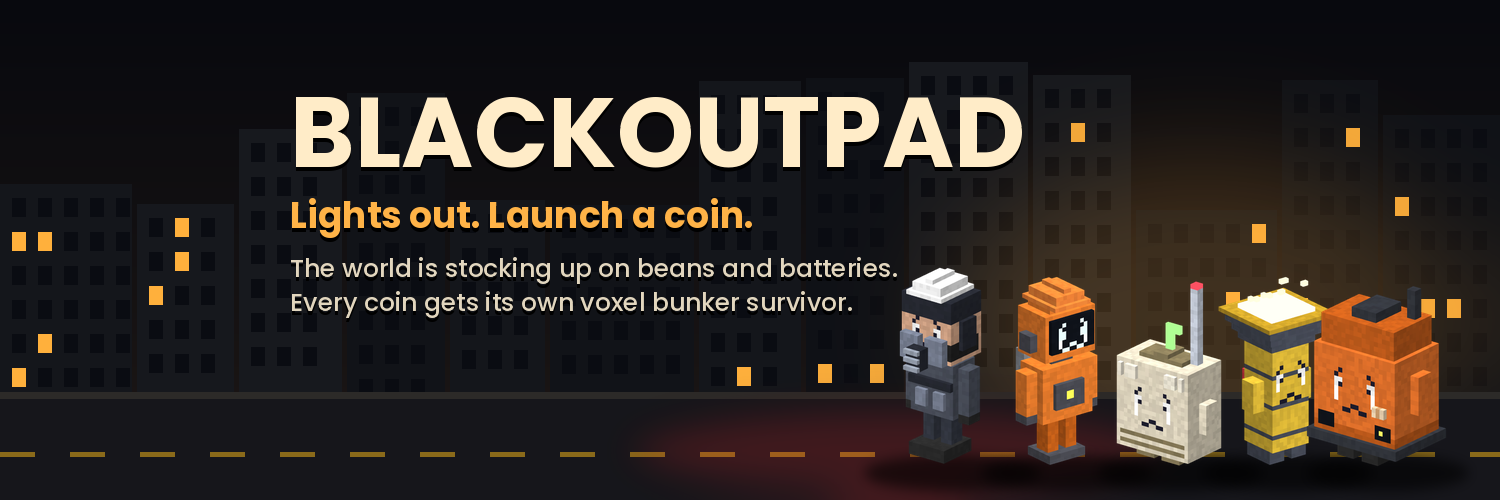
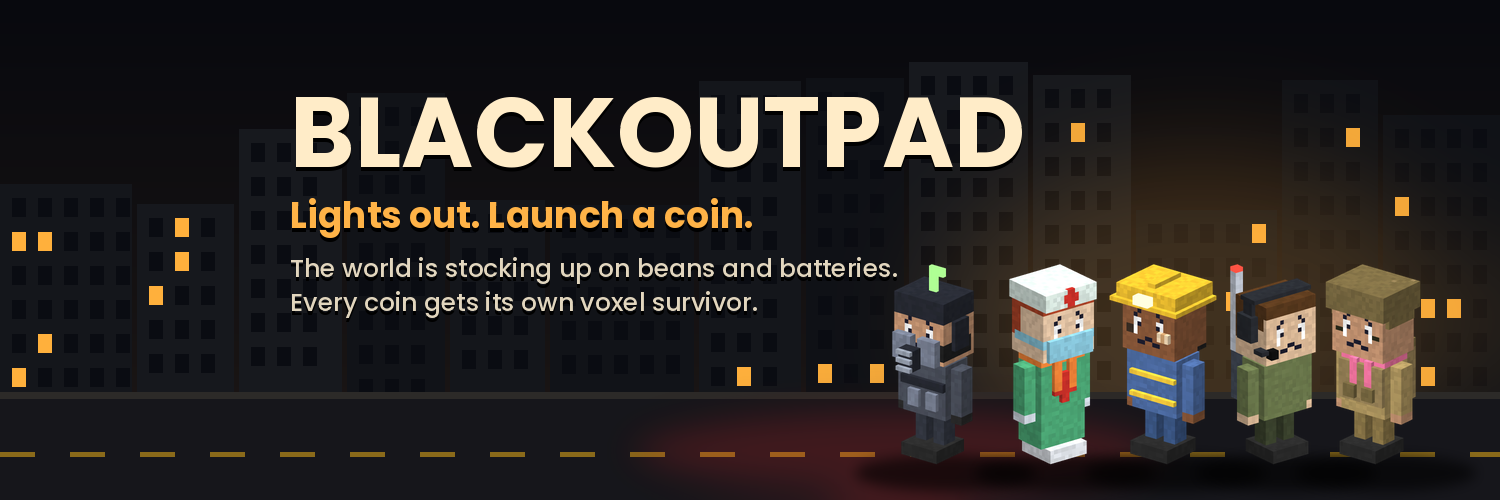
Characters are now humans: gas-mask survivor, hazmat worker, soldier, medic, radio operator, miner, electrician, lamplighter
Claude-Session: https://claude.ai/code/session_01XJUnd7YWyMkQMqU4jWDjo3

Changed region(s): [[0.4293, 0.51, 0.9813, 0.93]]

diff --git a/blackout.js b/blackout.js
@@ -1,7 +1,7 @@
 'use strict';
 // Bunker survivors for BlackoutPad, built from cubes in a 32 x 48 x 32 grid from a server secret.
-// Eight original characters in two teams. Preppers have stocked up (gas mask, hazmat suit, canned beans, generator).
-// Doomers are running out of power (flashlight, candle, radio, battery). Even slots are preppers and odd slots are doomers,
+// Eight original human characters in two teams. Preppers have stocked up (gas-mask survivor, hazmat worker, soldier, medic).
+// Doomers keep the lights on, or try to (radio operator, miner, electrician, lamplighter). Even slots are preppers and odd slots are doomers,
 // so the teams stay level. The same model drives the 3D views and the flat logos.
 const crypto = require('crypto');
 
@@ -11,36 +11,36 @@ const TEAR = '#bfe3ff', INK = '#1d1d2e', METAL = '#b9c0cc', METALD = '#98a1b0';
 // ---- looks: each species has a few colour sets ----
 const SPECIES = {
   prepper: {
-    gasmask: { name: 'Gas mask', w: 14, looks: [
-      { n: 'Olive', a: '#6b7a4a', b: '#4f5a38', c: '#3a3f35', d: '#8d9b6b', skin: '#e8c4a0' }, { n: 'Charcoal', a: '#4b505c', b: '#353944', c: '#272a33', d: '#7b8396', skin: '#d9a98a' },
-      { n: 'Desert', a: '#b79a63', b: '#8f7747', c: '#5b4a2c', d: '#d3bb86', skin: '#f0cfae' }, { n: 'Navy', a: '#3d5a86', b: '#2b4266', c: '#1e2d47', d: '#6f8fc0', skin: '#c99774' }] },
-    hazmat: { name: 'Hazmat suit', w: 14, looks: [
+    gasmask: { name: 'Gas-mask survivor', w: 14, looks: [
+      { n: 'Olive', a: '#6b7a4a', b: '#4f5a38', c: '#3a3f35', d: '#8d9b6b', skin: '#e8c4a0' }, { n: 'Charcoal', a: '#4b505c', b: '#353944', c: '#272a33', d: '#7b8396', skin: '#c99774' },
+      { n: 'Desert', a: '#b79a63', b: '#8f7747', c: '#5b4a2c', d: '#d3bb86', skin: '#f0cfae' }, { n: 'Navy', a: '#3d5a86', b: '#2b4266', c: '#1e2d47', d: '#6f8fc0', skin: '#8d5a3a' }] },
+    hazmat: { name: 'Hazmat worker', w: 14, looks: [
       { n: 'Yellow', a: '#f2c230', b: '#d6a31c', c: '#5b5f66', d: '#8a8e96' }, { n: 'Orange', a: '#f2812e', b: '#d1651a', c: '#4e4f57', d: '#8a8e96' },
       { n: 'White', a: '#eef0f4', b: '#cfd3dc', c: '#5b5f66', d: '#a9afbb' }, { n: 'Green', a: '#74c26a', b: '#58a24f', c: '#444b52', d: '#8a8e96' }] },
-    beans: { name: 'Canned beans', w: 14, looks: [
-      { n: 'Red label', a: '#c23b3b', b: '#f2cf4a' }, { n: 'Green label', a: '#3f9a58', b: '#f2e27a' },
-      { n: 'Blue label', a: '#3b6fd6', b: '#f0f0f0' }, { n: 'Orange label', a: '#e8832e', b: '#fff0c2' }] },
-    generator: { name: 'Generator', w: 14, looks: [
-      { n: 'Red', a: '#d84a3a', b: '#b8392c', c: '#33363d' }, { n: 'Yellow', a: '#e6b52e', b: '#c4961f', c: '#33363d' },
-      { n: 'Blue', a: '#3d77c9', b: '#2d5ea3', c: '#33363d' }, { n: 'Orange', a: '#e8742c', b: '#c45d1c', c: '#33363d' }] },
+    soldier: { name: 'Soldier', w: 14, looks: [
+      { n: 'Woodland', a: '#5d6b3f', b: '#475233', c: '#3f4a2c', d: '#6f6a4a', skin: '#e8c4a0', hair: '#5a3a1e' }, { n: 'Desert', a: '#b39a62', b: '#8f7a4a', c: '#7a6a42', d: '#9a8458', skin: '#c99774', hair: '#2b2118' },
+      { n: 'Urban grey', a: '#6a7078', b: '#4d525a', c: '#3a3e45', d: '#585e68', skin: '#8d5a3a', hair: '#222222' }, { n: 'Arctic', a: '#d9dee6', b: '#aeb6c4', c: '#c4cbd8', d: '#8e97a8', skin: '#f0cfae', hair: '#d9b35f' }] },
+    medic: { name: 'Medic', w: 14, looks: [
+      { n: 'White coat', a: '#f2f4f8', b: '#4a5a78', c: '#ffffff', d: '#8fd0e6', skin: '#e8c4a0', hair: '#5a3a1e' }, { n: 'Mint scrubs', a: '#8fd6c2', b: '#6fb8a4', c: '#e8f6f2', d: '#8fd0e6', skin: '#c99774', hair: '#2b2118' },
+      { n: 'Blue scrubs', a: '#4f86d9', b: '#3b6bb8', c: '#dbe8fb', d: '#8fd0e6', skin: '#8d5a3a', hair: '#222222' }, { n: 'Green scrubs', a: '#4fae7a', b: '#3d8a5f', c: '#e6f6ee', d: '#8fd0e6', skin: '#f0cfae', hair: '#b5472a' }] },
   },
   doomer: {
-    flashlight: { name: 'Flashlight', w: 14, looks: [
-      { n: 'Yellow', a: '#e8c13a', b: '#c9a02a', c: '#4a4f5c' }, { n: 'Red', a: '#d9534f', b: '#b3403c', c: '#3b3f4a' },
-      { n: 'Black', a: '#3b4252', b: '#2a303d', c: '#9aa3b5' }, { n: 'Blue', a: '#4f86d9', b: '#3b6bb8', c: '#3b3f4a' }] },
-    candle: { name: 'Candle', w: 14, looks: [
-      { n: 'Cream', a: '#f3e9d2', b: '#e1d2b0', c: '#c6a24a' }, { n: 'Red', a: '#d6584f', b: '#b8433b', c: '#c6a24a' },
-      { n: 'Teal', a: '#6cc3b8', b: '#4fa398', c: '#9aa0a8' }, { n: 'Lavender', a: '#b9a6e6', b: '#9d89cc', c: '#9aa0a8' }] },
-    radio: { name: 'Radio', w: 14, looks: [
-      { n: 'Army green', a: '#6f7d4f', b: '#8d9b6b', c: '#3e4630' }, { n: 'Orange', a: '#e8742c', b: '#f59a56', c: '#6b3a1a' },
-      { n: 'Cream', a: '#e9dfc7', b: '#f7f0de', c: '#8a7d5a' }, { n: 'Red', a: '#cf4a4a', b: '#e87474', c: '#5e2424' }] },
-    battery: { name: 'Battery', w: 14, looks: [
-      { n: 'Green', a: '#4fae5a', b: '#3d8a48', c: '#2f3a33' }, { n: 'Orange', a: '#f08a30', b: '#cc6e1e', c: '#3a2d22' },
-      { n: 'Yellow', a: '#e6c93a', b: '#c4a826', c: '#38342a' }, { n: 'Blue', a: '#4f86d9', b: '#3b6bb8', c: '#2a3447' }] },
+    radioop: { name: 'Radio operator', w: 14, looks: [
+      { n: 'Olive jacket', a: '#6f7d4f', b: '#3e4630', c: '#2a2d33', d: '#4a5260', skin: '#e8c4a0', hair: '#5a3a1e' }, { n: 'Orange jacket', a: '#e8742c', b: '#3a3f4a', c: '#2a2d33', d: '#5a6270', skin: '#c99774', hair: '#2b2118' },
+      { n: 'Grey jacket', a: '#7a808c', b: '#3d424d', c: '#d9b35f', d: '#4a5260', skin: '#8d5a3a', hair: '#222222' }, { n: 'Red jacket', a: '#c24a4a', b: '#2e3340', c: '#2a2d33', d: '#4a5260', skin: '#f0cfae', hair: '#b5472a' }] },
+    miner: { name: 'Miner', w: 14, looks: [
+      { n: 'Orange coverall', a: '#e8832e', b: '#c96a1e', c: '#f2c230', d: '#3a3f46', skin: '#e8c4a0', hair: '#5a3a1e' }, { n: 'Blue coverall', a: '#4f6fa8', b: '#3d5a8a', c: '#f2c230', d: '#3a3f46', skin: '#8d5a3a', hair: '#222222' },
+      { n: 'Grey coverall', a: '#7a808c', b: '#5d636e', c: '#e8832e', d: '#3a3f46', skin: '#c99774', hair: '#2b2118' }, { n: 'Green coverall', a: '#5f8a4f', b: '#4a7040', c: '#f2c230', d: '#3a3f46', skin: '#f0cfae', hair: '#d9b35f' }] },
+    electrician: { name: 'Electrician', w: 14, looks: [
+      { n: 'Blue overalls', a: '#3d6fc9', b: '#2f56a0', c: '#ffffff', d: '#f08a30', skin: '#e8c4a0', hair: '#5a3a1e' }, { n: 'Red overalls', a: '#d04a4a', b: '#a83a3a', c: '#f2c230', d: '#f08a30', skin: '#c99774', hair: '#2b2118' },
+      { n: 'Grey overalls', a: '#6f7682', b: '#555c68', c: '#ffffff', d: '#f08a30', skin: '#8d5a3a', hair: '#222222' }, { n: 'Green overalls', a: '#4f9a6a', b: '#3d7a53', c: '#f2c230', d: '#f08a30', skin: '#f0cfae', hair: '#b5472a' }] },
+    lamplighter: { name: 'Lamplighter', w: 14, looks: [
+      { n: 'Brown coat', a: '#7a5a3c', b: '#3a2e24', c: '#4a3a2a', d: '#b5472a', skin: '#e8c4a0', hair: '#cfcfcf' }, { n: 'Green coat', a: '#4a6a4f', b: '#2a3a2e', c: '#2e3a30', d: '#d9b35f', skin: '#c99774', hair: '#e6e6e6' },
+      { n: 'Navy coat', a: '#3a4a6a', b: '#252e44', c: '#2a3248', d: '#c24a4a', skin: '#8d5a3a', hair: '#cfcfcf' }, { n: 'Grey coat', a: '#6a6e76', b: '#3a3d44', c: '#4a4d54', d: '#6fa8d9', skin: '#f0cfae', hair: '#ffffff' }] },
   },
 };
-const ACCS = [['none', 30], ['helmet', 26], ['plaster', 24], ['glowstick', 20]];
-const ACC_COL = ['#f2c230', '#ff8a3a', '#e6544f', '#ffffff', '#3a7ae6', '#3ae68a', '#b03ae6'];
+const ACCS = [['none', 30], ['plaster', 24], ['glowstick', 20], ['scarf', 26]];
+const ACC_COL = ['#e6544f', '#3a7ae6', '#3ae68a', '#e6c13a', '#b03ae6', '#ff7aa8', '#ff8a3a'];
 const BGS = { prepper: ['#1f2a22', '#222f2a', '#26302a', '#1f2e33'], doomer: ['#33261a', '#2e2a1c', '#3a2c1c', '#2b261f'] };
 const NAMES = {
   prepper: ['STOCKPILE', 'BUNKER', 'RATIONS', 'HOARD', 'CANNED', 'PANTRY', 'FALLOUT', 'SHELTER', 'STASH', 'DEHYDRATED', 'MRE', 'VAULT', 'CELLAR', 'BOLTHOLE', 'LOCKDOWN', 'SURVIVOR', 'FORAGE', 'TARP', 'TINNED', 'BASEMENT', 'ARK', 'SILO', 'BERM', 'LARDER', 'JERRYCAN', 'PADLOCK', 'SANDBAG', 'WATERTANK'],
@@ -95,7 +95,7 @@ function traitsFor(slot, secret) {
     do {
       const k = pickW(keys.map((x) => [x, sp[x].w]), list.rnd())[0], look = Math.floor(list.rnd() * sp[k].looks.length);
       t = { team, species: k, look, acc: pickW(ACCS, list.rnd())[0], accColor: Math.floor(list.rnd() * ACC_COL.length), bg: Math.floor(list.rnd() * 4), seed: Math.floor(list.rnd() * 1e9) };
-      key = [k, look, t.acc, t.acc === 'helmet' ? t.accColor : 0].join('|');
+      key = [k, look, t.acc, t.acc === 'scarf' ? t.accColor : 0].join('|');
       tries++;
     } while ((list.seen.has(key) || (tries < 120 && list.kinds.has(t.species + t.look) && list.kinds.size < keys.length * 4)) && tries < 200);
     list.seen.add(key); list.kinds.add(t.species + t.look);
@@ -171,81 +171,82 @@ function buildHazmat(v, P) {
   face(v, { zf: 21, ex: 2, ey: 30, my: 27, tl: 2, eye: '#a8f0ff', eyeE: 1, pupil: null, brow: '#a8f0ff', mouth: '#a8f0ff', mw: 1 });
   return { top: 36, hw: 5, z0: 11, z1: 20, zf: 21, cheek: [6, 29] };
 }
-function buildBeans(v, P) {
-  v.pv.leg = 2; v.pv.arm = 19;
-  v.mb(17, 0, 13, 19, 1, 18, METALD, 0, 1, 2);
-  v.mb(16, 2, 9, 23, 3, 22, METALD); v.mb(16, 25, 9, 23, 26, 22, METALD);
-  v.mb(16, 4, 10, 22, 24, 21, (x, y) => (y >= 6 && y <= 22 ? ((y === 6 || y === 22) ? P.b : P.a) : METAL));
-  v.box(14, 27, 14, 17, 27, 17, '#cfd6e3'); v.box(14, 28, 17, 17, 28, 17, '#cfd6e3');
-  v.mb(23, 10, 13, 25, 17, 17, METAL, 0, 3, 4);
-  face(v, { zf: 21, ex: 3, ey: 14, my: 9, tl: 2, mw: 1 });
-  return { top: 27, hw: 7, z0: 9, z1: 22, zf: 21, cheek: [7, 13] };
+// the shared human body: boots, legs, torso, arms, neck, head with hair and a worried face
+function human(v, P, o) {
+  o = o || {};
+  v.pv.leg = 10; v.pv.arm = 21;
+  v.mb(17, 3, 14, 19, 9, 17, P.b, 0, 1, 2); v.mb(16, 0, 12, 20, 2, 21, o.boot || '#2b2b2b', 0, 1, 2);
+  v.mb(16, 10, 12, 21, 22, 19, P.a);
+  v.mb(22, 11, 14, 24, 21, 17, P.a, 0, 3, 4); v.mb(22, 9, 14, 24, 10, 17, o.glove || P.skin, 0, 3, 4);
+  v.mb(16, 22, 13, 19, 23, 18, P.skin);
+  v.mb(16, 24, 11, 22, 36, 21, P.skin);
+  if (!o.nohair) { v.mb(16, 35, 11, 22, 37, 21, P.hair); v.mb(16, 28, 11, 22, 36, 13, P.hair); v.mb(22, 32, 12, 22, 36, 20, P.hair); }
+  face(v, { zf: 21, ex: 2, ey: 30, my: 26, tl: 2, mouth: INK, mw: 1, pupil: INK });
 }
-function buildGenerator(v, P) {
-  v.pv.leg = 3; v.pv.arm = 17;
-  v.mb(17, 0, 10, 20, 2, 21, '#2b2b2b', 0, 1, 2);
-  v.mb(16, 3, 8, 26, 4, 23, P.c);
-  v.mb(16, 5, 9, 25, 22, 22, P.a); v.mb(16, 5, 9, 25, 6, 22, P.b);
-  v.mb(16, 23, 10, 24, 28, 21, P.b); v.mb(16, 29, 12, 18, 30, 19, P.c);
-  v.box(22, 29, 12, 23, 34, 13, P.c);
-  v.mb(26, 11, 14, 27, 18, 17, P.a, 0, 3, 4);
-  v.mb(21, 6, 22, 24, 8, 22, '#10141c'); v.set(22, 7, 22, '#ffb347', 1);
-  face(v, { zf: 22, ex: 3, ey: 15, my: 10, tl: 3, mw: 1 });
-  return { top: 28, hw: 8, z0: 10, z1: 21, zf: 22, cheek: [8, 14] };
+function buildSoldier(v, P) {
+  human(v, P, { nohair: true });
+  v.mb(16, 35, 10, 23, 39, 22, P.c); v.mb(16, 34, 10, 23, 34, 22, P.c); v.mb(23, 32, 12, 23, 36, 20, P.c);
+  for (let k = 0; k < 14; k++) v.set(16 + ((k * 5) % 7), 35 + (k % 5), 10 + ((k * 3) % 12), P.d, 0);
+  v.mb(16, 13, 20, 21, 21, 20, P.d); v.mb(17, 14, 21, 19, 16, 21, P.c);
+  v.mb(17, 12, 9, 21, 23, 11, P.d); v.mb(17, 24, 9, 21, 25, 11, P.c);
+  v.mb(20, 29, 21, 21, 29, 21, '#2a2a1a');
+  return { top: 39, hw: 7, z0: 10, z1: 22, zf: 21, cheek: [6, 31] };
 }
-function buildFlashlight(v, P) {
-  v.pv.leg = 3; v.pv.arm = 18;
-  v.mb(17, 0, 12, 20, 2, 19, P.c, 0, 1, 2);
-  v.mb(16, 3, 11, 20, 26, 20, (x, y) => (y % 7 === 6 ? P.c : P.a));
-  v.mb(17, 14, 9, 19, 18, 10, '#e63946');
-  v.mb(16, 27, 10, 21, 28, 21, P.c); v.mb(16, 29, 9, 22, 30, 22, P.c); v.mb(16, 31, 8, 23, 32, 23, P.c); v.mb(16, 33, 7, 24, 33, 24, P.b);
-  v.mb(16, 34, 10, 21, 34, 21, '#fff6b0', 1);
-  for (const [x, z, y] of [[17, 15, 37], [21, 18, 39], [19, 13, 36], [23, 16, 38], [16, 18, 41]]) { v.set(x, y, z, '#fff3a0', 1); v.set(31 - x, y, z, '#fff3a0', 1); }
-  v.mb(21, 12, 14, 23, 18, 17, P.a, 0, 3, 4);
-  face(v, { zf: 20, ex: 2, ey: 19, my: 14, tl: 2, mw: 1 });
-  return { top: 34, hw: 8, z0: 8, z1: 23, zf: 20, cheek: [5, 18] };
+function buildMedic(v, P) {
+  human(v, P, { nohair: true, glove: '#dfe8f2', boot: '#e9edf3' });
+  v.mb(16, 4, 12, 21, 9, 19, P.a); v.mb(16, 3, 12, 21, 3, 19, P.a);
+  v.mb(16, 35, 11, 22, 36, 21, P.hair); v.mb(16, 28, 11, 22, 35, 13, P.hair);
+  v.mb(16, 36, 10, 22, 39, 22, P.c);
+  v.box(15, 37, 22, 16, 38, 22, '#d6332b'); v.box(14, 37, 22, 17, 38, 22, '#d6332b'); v.box(15, 36, 22, 16, 39, 22, '#d6332b');
+  v.box(15, 13, 20, 16, 19, 20, '#d6332b'); v.box(13, 15, 20, 18, 17, 20, '#d6332b');
+  v.mb(16, 24, 22, 21, 28, 22, P.d);
+  v.mb(22, 27, 12, 22, 28, 21, P.d);
+  return { top: 39, hw: 6, z0: 10, z1: 22, zf: 21, cheek: [6, 31] };
 }
-function buildCandle(v, P) {
-  v.pv.leg = 2; v.pv.arm = 15;
-  v.mb(16, 0, 8, 24, 1, 23, P.c);
-  v.mb(16, 2, 10, 21, 24, 21, P.a); v.mb(16, 25, 11, 20, 25, 20, P.b);
-  v.mb(22, 14, 13, 22, 24, 15, P.b); v.mb(17, 19, 22, 17, 24, 22, P.b);
-  v.mb(22, 10, 14, 24, 16, 17, P.a, 0, 3, 4);
-  v.box(15, 26, 15, 16, 29, 16, '#2b2b2b');
-  v.box(15, 30, 15, 16, 34, 16, '#ffb02e', 1); v.box(15, 35, 15, 16, 36, 16, '#fff2a8', 1);
-  v.set(14, 31, 15, '#ffb02e', 1); v.set(17, 31, 16, '#ffb02e', 1); v.set(14, 32, 16, '#ff8a3a', 1); v.set(17, 32, 15, '#ff8a3a', 1);
-  face(v, { zf: 21, ex: 2, ey: 17, my: 11, tl: 3, mw: 1 });
-  return { top: 25, hw: 6, z0: 10, z1: 21, zf: 21, cheek: [6, 16] };
+function buildRadioOp(v, P) {
+  human(v, P);
+  v.mb(23, 29, 14, 24, 34, 18, P.c); v.mb(16, 38, 14, 23, 38, 18, P.c); v.mb(23, 35, 15, 23, 37, 17, P.c);
+  v.box(22, 27, 20, 24, 27, 22, P.c); v.box(21, 26, 22, 22, 27, 23, '#111111');
+  v.mb(17, 12, 8, 21, 23, 11, P.d); v.mb(17, 20, 8, 18, 21, 8, '#ffb347', 1);
+  v.box(21, 24, 9, 22, 42, 10, '#cfd6e3'); v.box(21, 43, 9, 22, 43, 10, '#ff3b30', 1);
+  return { top: 38, hw: 6, z0: 11, z1: 21, zf: 21, cheek: [6, 31] };
 }
-function buildRadio(v, P) {
-  v.pv.leg = 3; v.pv.arm = 16;
-  v.mb(17, 0, 12, 21, 1, 19, P.c, 0, 1, 2);
-  v.mb(16, 2, 10, 25, 22, 21, P.a);
-  v.mb(16, 3, 21, 24, 3, 21, P.c); v.mb(16, 5, 21, 24, 5, 21, P.c);
-  v.mb(16, 23, 13, 21, 23, 18, P.c); v.mb(16, 24, 13, 17, 24, 18, P.c);
-  v.mb(20, 19, 21, 22, 21, 22, P.b); v.mb(24, 19, 21, 24, 21, 22, P.b);
-  v.box(22, 23, 14, 23, 40, 15, '#cfd6e3'); v.box(22, 41, 14, 23, 41, 15, '#e63946', 1);
-  v.mb(26, 8, 14, 27, 14, 17, P.a, 0, 3, 4);
-  face(v, { zf: 21, ex: 3, ey: 13, my: 8, tl: 3, mw: 1 });
-  return { top: 24, hw: 9, z0: 10, z1: 21, zf: 21, cheek: [8, 12] };
+function buildMiner(v, P) {
+  human(v, P, { nohair: true });
+  v.mb(16, 35, 10, 23, 38, 22, P.c); v.mb(16, 35, 10, 24, 35, 23, P.c); v.box(15, 39, 12, 16, 39, 20, P.c);
+  v.box(14, 36, 22, 17, 37, 22, P.d); v.box(14, 36, 23, 17, 37, 24, '#fff3a0', 1);
+  v.mb(20, 28, 21, 21, 29, 21, '#3a2e24');
+  v.mb(16, 13, 20, 21, 13, 20, '#ffd23f'); v.mb(16, 18, 20, 21, 18, 20, '#ffd23f');
+  v.mb(16, 24, 11, 22, 24, 13, P.hair);
+  return { top: 39, hw: 7, z0: 10, z1: 22, zf: 21, cheek: [6, 31] };
 }
-function buildBattery(v, P) {
-  v.pv.leg = 3; v.pv.arm = 17;
-  v.mb(17, 0, 13, 19, 2, 18, P.c, 0, 1, 2);
-  v.mb(16, 3, 11, 21, 28, 20, (x, y) => (y <= 4 ? P.c : y >= 22 ? P.b : P.a));
-  v.mb(16, 29, 13, 19, 29, 18, P.c); v.mb(16, 30, 14, 17, 31, 17, P.c);
-  v.mb(22, 10, 14, 24, 17, 17, P.a, 0, 3, 4);
-  face(v, { zf: 20, ex: 2, ey: 14, my: 8, tl: 2, mw: 1 });
-  return { top: 31, hw: 5, z0: 11, z1: 20, zf: 20, cheek: [6, 13] };
+function buildElectrician(v, P) {
+  human(v, P, { nohair: true, glove: P.d });
+  v.mb(16, 35, 10, 23, 38, 22, P.c); v.mb(16, 35, 10, 24, 35, 23, P.c); v.box(15, 39, 12, 16, 39, 20, P.c);
+  v.mb(17, 33, 22, 21, 35, 22, '#2a2f36'); v.mb(18, 34, 23, 20, 34, 23, '#7fe8ff', 1);
+  v.mb(16, 10, 20, 21, 11, 20, '#6b4a2a'); v.mb(17, 9, 21, 18, 11, 21, '#8a5a2a'); v.set(20, 11, 21, '#e63946', 0);
+  for (const [x, y] of [[16, 20], [16, 19], [15, 18], [15, 17], [14, 16], [14, 15], [15, 14]]) v.set(x, y, 20, '#ffd23f', 1);
+  v.mb(16, 24, 11, 22, 24, 13, P.hair);
+  return { top: 39, hw: 7, z0: 10, z1: 22, zf: 21, cheek: [6, 31] };
 }
-const BUILD = { gasmask: buildGasmask, hazmat: buildHazmat, beans: buildBeans, generator: buildGenerator, flashlight: buildFlashlight, candle: buildCandle, radio: buildRadio, battery: buildBattery };
+function buildLamplighter(v, P) {
+  human(v, P, { nohair: true });
+  v.mb(16, 3, 12, 22, 9, 19, P.a);
+  v.mb(16, 35, 11, 22, 36, 21, P.hair); v.mb(16, 28, 11, 22, 36, 12, P.hair); v.mb(22, 28, 12, 22, 35, 20, P.hair);
+  v.mb(16, 37, 10, 22, 38, 22, P.c); v.mb(17, 37, 22, 21, 37, 23, P.c);
+  v.mb(16, 22, 12, 21, 23, 19, P.d);
+  v.mb(17, 24, 22, 21, 25, 22, P.hair);
+  v.g = 3; v.box(24, 4, 14, 27, 10, 17, '#2a2d33'); v.box(25, 5, 15, 26, 9, 16, '#ffb347', 1); v.box(25, 11, 15, 26, 11, 16, '#2a2d33'); v.g = 0;
+  return { top: 38, hw: 6, z0: 10, z1: 22, zf: 21, cheek: [6, 31] };
+}
+const BUILD = { gasmask: buildGasmask, hazmat: buildHazmat, soldier: buildSoldier, medic: buildMedic, radioop: buildRadioOp, miner: buildMiner, electrician: buildElectrician, lamplighter: buildLamplighter };
 
 // accessories sit on the head top (or the face) of whichever character it is
 function accessory(v, a, acc, col) {
   const zm = (a.z0 + a.z1) >> 1;
-  if (acc === 'helmet') { v.mb(16, a.top + 1, a.z0 - 1, 15 + a.hw, a.top + 1, a.z1 + 1, col); v.mb(16, a.top + 2, a.z0, 14 + a.hw, a.top + 3, a.z1, col); v.box(15, a.top + 4, a.z0 + 1, 16, a.top + 4, a.z1 - 1, col); }
-  else if (acc === 'plaster') { const x = 16 + a.cheek[0] - 3, y = a.cheek[1] - 3; v.box(x, y, a.zf + 1, x + 2, y + 1, a.zf + 1, '#f3d9b5'); v.set(x + 1, y, a.zf + 1, '#c99b6a'); v.set(x + 1, y + 1, a.zf + 1, '#c99b6a'); }
+  if (acc === 'plaster') { const x = 16 + a.cheek[0] - 3, y = a.cheek[1] - 3; v.box(x, y, a.zf + 1, x + 2, y + 1, a.zf + 1, '#f3d9b5'); v.set(x + 1, y, a.zf + 1, '#c99b6a'); v.set(x + 1, y + 1, a.zf + 1, '#c99b6a'); }
   else if (acc === 'glowstick') { v.box(15, a.top + 1, zm, 16, a.top + 6, zm, '#7dff6a', 1); v.box(17, a.top + 5, zm, 18, a.top + 6, zm, '#7dff6a', 1); }
+  else if (acc === 'scarf') { v.mb(16, 22, 12, 21, 23, 19, col); v.mb(17, 16, 20, 18, 22, 20, col); }
 }
 
 const GLOW = '#ffb347';

diff --git a/cave.js b/cave.js
@@ -115,11 +115,11 @@
       w=Math.max(80,Math.ceil(vw/scale));h=Math.max(80,Math.ceil(vh/scale));canvas.width=w;canvas.height=h;
       bl=[];var x=-6;while(x<w){var bw=18+Math.round(rd()*16),bh=Math.round(h*(.3+rd()*.28)),wins=[];for(var wy=6;wy<bh-4;wy+=8)for(var wx=3;wx<bw-5;wx+=7){var q=rd();wins.push({x:wx,y:wy,lit:q<.1?1:q<.17?2:0,p:rd()*9})}bl.push({x:x,w:bw,h:bh,wins:wins,c:Math.round(20+rd()*10)});x+=bw+2}
       em=[];for(var i=0;i<Math.round(w/4);i++)em.push({x:rd()*w,y:rd()*h,v:6+rd()*10,p:rd()*6})}
-    // two survivors: a hazmat suit and a battery. dir is the way they face; step swaps the feet; the sweat drop runs down
+    // two survivors: a hazmat worker and a lamplighter with his lantern. dir is the way they face; step swaps the feet; the sweat drop runs down
     function friend(c,x,gy,dir,bat,col,dk,step,t){
       var f=function(rx,ry,rw,rh,cl){c.fillStyle=cl;c.fillRect(Math.round(x+dir*rx-(dir<0?rw-1:0)),gy+ry,rw,rh)};
-      if(bat){f(-6,-18,12,17,col);f(-3,-21,6,3,dk);f(-5,-1+(step?1:0),4,2,'#2b2b2b');f(1,-1+(step?0:1),4,2,'#2b2b2b');
-        f(-4,-14,2,3,'#fff');f(2,-14,2,3,'#fff');f(-3,-13,1,1,'#222');f(3,-13,1,1,'#222');f(-3,-8,6,1,'#222');f(-4,-9,1,1,'#222');f(3,-9,1,1,'#222');f(3,-11+Math.round((t*3)%1*5),1,2,'#bfe3ff')}
+      if(bat){f(-5,-26,10,9,'#e8c4a0');f(-5,-27,10,3,'#5a3a1e');f(-6,-17,12,16,col);f(-5,-1+(step?1:0),4,2,'#2b2b2b');f(1,-1+(step?0:1),4,2,'#2b2b2b');f(6,-15,3,6,col);
+        f(-3,-23,2,2,'#fff');f(1,-23,2,2,'#fff');f(-2,-22,1,1,'#222');f(2,-22,1,1,'#222');f(-2,-19,4,1,'#222');f(-3,-20,1,1,'#222');f(2,-20,1,1,'#222');f(3,-21+Math.round((t*3)%1*5),1,2,'#bfe3ff');f(8,-10,3,4,'#ffb347')}
       else{f(-6,-17,12,12,col);f(-5,-26,10,9,col);f(-4,-24,8,5,'#10141c');f(-3,-23,2,2,'#a8f0ff');f(1,-23,2,2,'#a8f0ff');f(-2,-20,4,1,'#a8f0ff');
         f(-5,-5,4,5+(step?1:0),dk);f(1,-5,4,5+(step?0:1),dk);f(6,-15,3,6,col);f(3,-22+Math.round((t*3)%1*5),1,2,'#bfe3ff')}
     }

diff --git a/index.html b/index.html
@@ -134,7 +134,7 @@ footer button{background:none;border:0;color:var(--gold);font:inherit;cursor:poi
 </header>
 
 <h1>Lights out. <span>Launch a coin.</span></h1>
-<p class="lede">The headlines say World War 3. The rumours say a 90-day blackout. Everyone is stocking up on beans and batteries. So while the world panics, make your own coin. Every coin launched here claims one of BlackoutPad’s little voxel survivors as its logo (a gas mask, a hazmat suit, a flashlight, a candle, a radio, a battery, a generator or a can of beans), and it stays with your coin for good. It reports the coin’s public numbers on its page: curve progress, holders, dev share and anything worth flagging. Connect your wallet, pick a survivor or let BlackoutPad choose, and name your coin.</p>
+<p class="lede">The headlines say World War 3. The rumours say a 90-day blackout. Everyone is stocking up on beans and batteries. So while the world panics, make your own coin. Every coin launched here claims one of BlackoutPad’s little voxel people as its logo (a gas-mask survivor, a hazmat worker, a soldier, a medic, a radio operator, a miner, an electrician or a lamplighter), and it stays with your coin for good. It reports the coin’s public numbers on its page: curve progress, holders, dev share and anything worth flagging. Connect your wallet, pick a survivor or let BlackoutPad choose, and name your coin.</p>
 
 <div id="recent" hidden><h2>Recent launches</h2><div class="recent" id="recentlist"></div></div>
 

diff --git a/README.md b/README.md
@@ -7,7 +7,7 @@ This is its own service: its own data volume, env vars and domain. It lives at t
 - **`/`** is the whole app: an intro (a blacked-out street at night, seen from above, where the survivors hurry about under flickering windows, hazard lights and sirens until the visitor presses Proceed), then the launchpad over a dim pixel bunker. The intro is a 3D scene (`intro3d.js`, plain WebGL2) and the characters' voxels come from `/api/agent/<n>/voxels.json`. Browsers without WebGL2, or slow ones, get a 2D version.
 - A launcher connects Phantom, picks an open agent (or asks for a random one), names the coin, and launches. The launch uses the official `@pump-fun/pump-sdk`, with the launcher's first buy in the same transaction.
 - **Classes and abilities:** each agent has a class with one special ability (Holder Radar, Cap Tracker, Dev Watch, Record Board, Milestone Log, Graduation Pace, Self-Check, Plain Brief, Authority Audit, Launch Block Scan, Sell Impact; the flagship has Command Sweep). They only use public chain numbers and what the agent saw on earlier visits (kept in `watch-<cluster>.json`). None of them trades or predicts.
-- **Bunker survivors:** 3D voxel characters built by code (`blackout.js`): a gas mask, hazmat suit, can of beans and generator (the preppers) and a flashlight, candle, radio and battery (the doomers). Each has colour sets, a worried face and sweat drops, and sometimes a hard hat, a plaster or a glow stick. Even slots are preppers and odd slots are doomers, so the teams stay level. The home page keeps a Preppers & Doomers scoreboard.
+- **Bunker survivors:** 3D voxel people built by code (`blackout.js`): a gas-mask survivor, hazmat worker, soldier and medic (the preppers) and a radio operator, miner, electrician and lamplighter (the doomers). Each has colour sets, skin and hair, a worried face and sweat drops, and sometimes a bandage, a glow stick or a scarf. Even slots are preppers and odd slots are doomers, so the teams stay level. The home page keeps a Preppers & Doomers scoreboard.
 - **Classes:** preppers are `SCAVENGER`, `QUARTERMASTER`, `LOOKOUT`, `STOCKTAKER`; doomers are `WATCHMAN`, `PROPHET`, `SIREN`, `INSPECTOR`. Each maps to a report in `report.js` (`ability.fn`) that works from real chain numbers.
 - **The agent report** (`report.js`) is on every coin page. It turns the numbers read from the chain into plain sentences: curve progress and milestones, market cap, dev share, top-10 concentration, holder count, and flags for a large dev or concentrated holders. It only reads public data. It does not trade, hold funds, predict prices or give advice, and the page says so. It is built from the same cached chain read as the rest of the coin page.
 - **BlackoutPad (flagship):** one flagship outside the numbered set, a gas-mask commander in a gold crown that sweats gold, launchable only by `FOUNDER_WALLET`.
